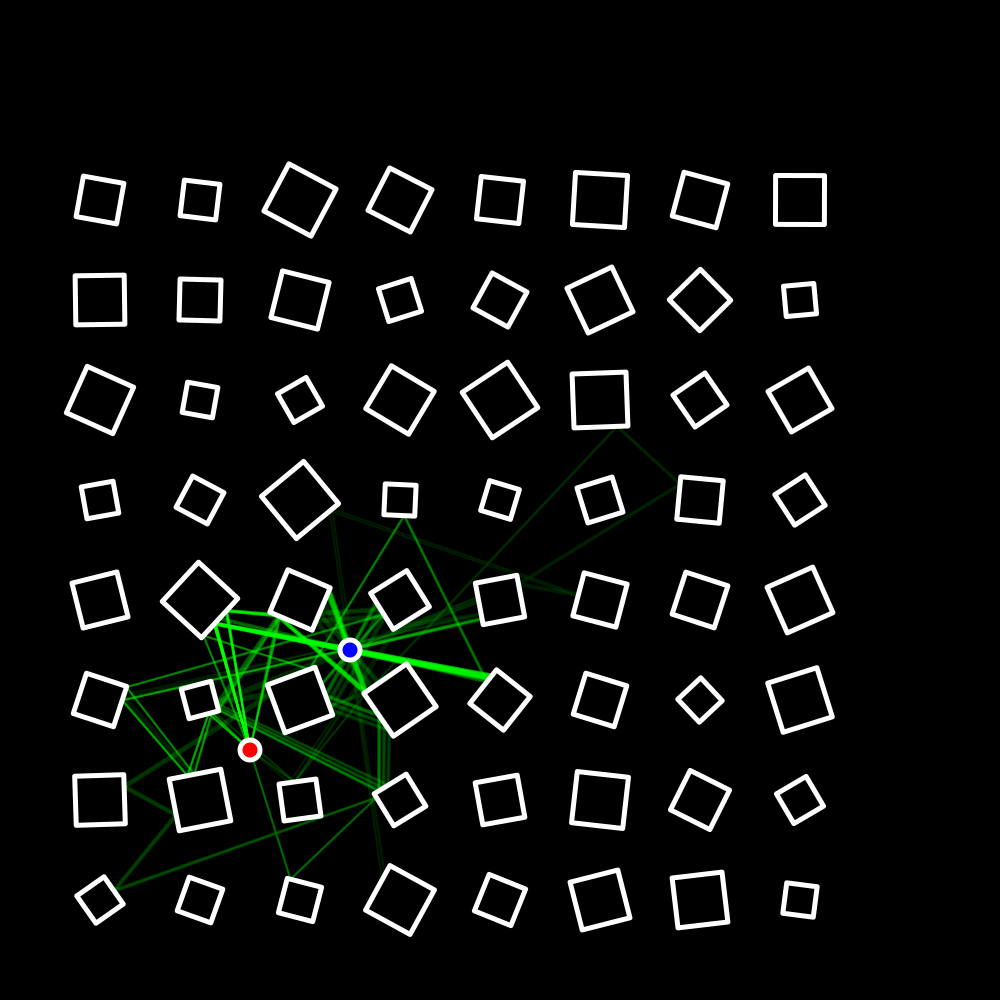
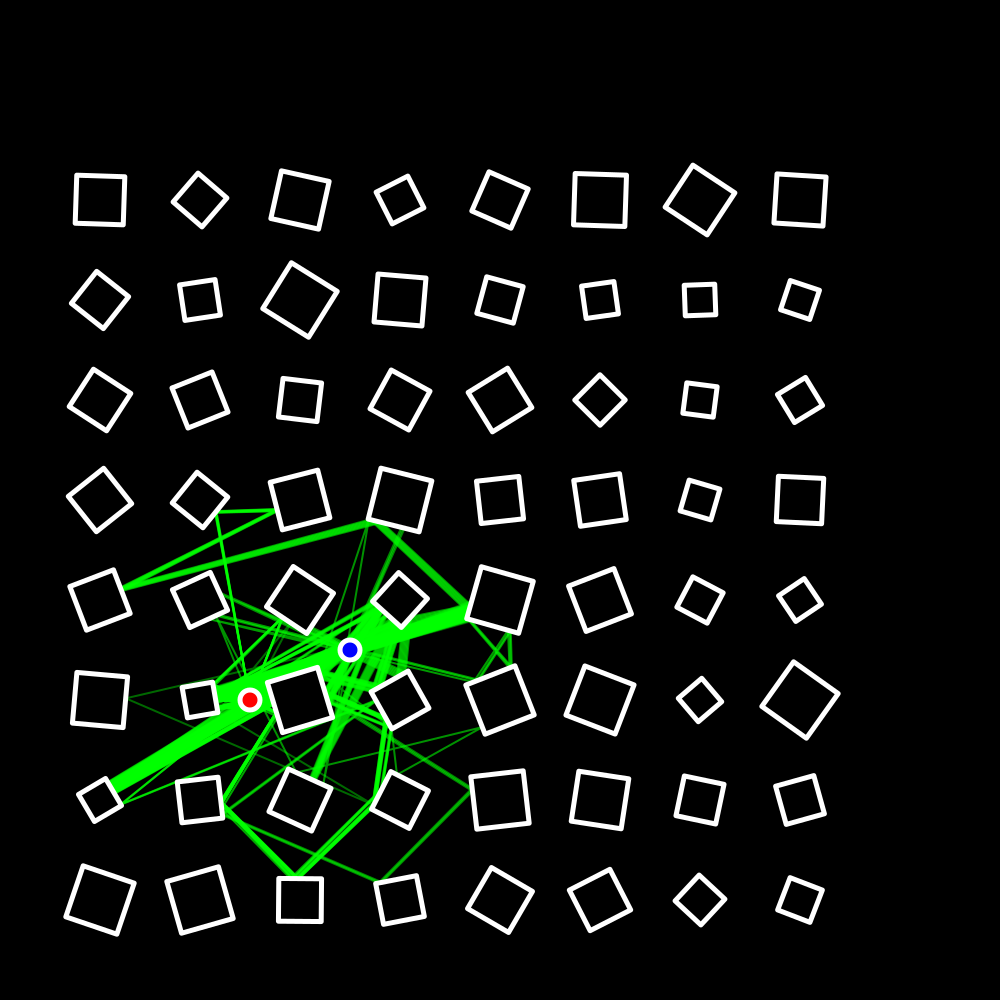
chart working successfully

diff --git a/main.py b/main.py
@@ -6,9 +6,9 @@ import numpy as np
 import matplotlib.pyplot as plt
 from multipatprop import System, Transmitter, Receiver, Interferer, Point, DigitalSignal
 
-seed(1)
+seed(2)
 
-transmitter = Transmitter(Point(-2.5, -2.5))
+transmitter = Transmitter(Point(-2.5, -2))
 receiver = Receiver(Point(-1.5, -1.5))
 interferers = []
 
@@ -18,89 +18,12 @@ for x in range(-4, 4):
         interferers.append(interferer)
 
 system = System(transmitter, receiver, interferers)
-multipath = system.get_multipath(starting_number=3000, receiver_diameter=0.05, max_reflections=10)
+multipath = system.get_multipath(starting_number=5000, receiver_diameter=0.1, max_reflections=10)
 
 camera_position = Point(0, 0)
 camera_zoom = 0.1
 
 
-svg = cairo.SVGSurface("example.svg", 200, 200)
 
-
-with cairo.ImageSurface(cairo.FORMAT_RGB24, 1000, 1000) as surface:
-    context = cairo.Context(surface)
-    context.scale(1000, 1000)
-
-    context.set_source_rgb(0, 0, 0)
-    context.rectangle(0, 0, 1, 1)
-    context.fill()
-    context.translate(0.5, 0.5)
-    context.scale(1, -1)
-    context.scale(camera_zoom, camera_zoom)
-    context.translate(-camera_position.x, -camera_position.y)
-
-    for path in multipath:
-        for point in path:
-            context.line_to(point.x, point.y)
-        context.set_source_rgba(0, 1, 0, path.strength)
-        context.set_line_width(0.02)
-        context.set_line_join(cairo.LINE_JOIN_ROUND)
-        context.set_line_cap(cairo.LINE_CAP_ROUND)
-        context.stroke()
-
-    for interferer in system.interferers:
-        for point in interferer.points:
-            context.line_to(point.x, point.y)
-        context.close_path()
-        context.set_source_rgb(0, 0, 0)
-        context.fill_preserve()
-        context.set_source_rgb(1, 1, 1)
-        context.set_line_width(0.05)
-        context.set_line_join(cairo.LINE_JOIN_ROUND)
-        context.set_line_cap(cairo.LINE_CAP_ROUND)
-        context.stroke()
-
-    context.arc(system.transmitter.position.x, system.transmitter.position.y, 0.1, 0, tau)
-    context.set_source_rgb(1, 0, 0)
-    context.fill_preserve()
-    context.set_source_rgb(1, 1, 1)
-    context.set_line_width(0.05)
-    context.set_line_join(cairo.LINE_JOIN_ROUND)
-    context.set_line_cap(cairo.LINE_CAP_ROUND)
-    context.stroke()
-
-    context.arc(system.receiver.position.x, system.receiver.position.y, 0.1, 0, tau)
-    context.set_source_rgb(0, 0, 1)
-    context.fill_preserve()
-    context.set_source_rgb(1, 1, 1)
-    context.set_line_width(0.05)
-    context.set_line_join(cairo.LINE_JOIN_ROUND)
-    context.set_line_cap(cairo.LINE_CAP_ROUND)
-    context.stroke()
-
-    surface.write_to_png("render.png")
-
-input_times = np.linspace(0, 30, 1000)
-input_strengths = np.zeros(1000)
-
-for i in range(1000):
-    if i % 100 <= 50:
-        input_strengths[i] = 1
-    else:
-        input_strengths[i] = 0
-
-input_signal = DigitalSignal(input_times, input_strengths)
-output_signals = list(multipath.signals(input_signal))
-output_times = np.linspace(0, 30, 1000)
-output_strengths = []
-for input_time in input_times:
-    output_strength = 0
-    for output_signal in output_signals:
-        output_strength += output_signal.strength(input_time)
-    output_strengths.append(output_strength / 10)
-output_signal = DigitalSignal(output_times, output_strengths)
-
-fig, ax = plt.subplots()
-ax.plot(input_signal.times, input_signal.strengths)
-ax.plot(output_signal.times, output_signal.strengths)
-plt.show()
+from render import render
+render(system, multipath, camera_position, camera_zoom, ui_size=1)

diff --git a/render.py b/render.py
@@ -1,0 +1,75 @@
+from math import tau
+import cairo
+import matplotlib.pyplot as plt
+import numpy as np
+from multipatprop import System, Multipath, Point
+
+
+def render(system: System, multipath: Multipath, camera_position: Point, camera_zoom: float, ui_size: float) -> None:
+    with cairo.ImageSurface(cairo.FORMAT_RGB24, 1000, 1000) as surface:
+        context = cairo.Context(surface)
+        context.scale(1000, 1000)
+        context.fill()
+        context.translate(0.5, 0.5)
+        context.scale(1, -1)
+        context.scale(camera_zoom, camera_zoom)
+        context.translate(-camera_position.x, -camera_position.y)
+
+        for path in multipath:
+            for point in path:
+                context.line_to(point.x, point.y)
+            context.set_source_rgba(0, 1, 0, path.attenuation)
+            context.set_line_width(0.02 * ui_size)
+            context.set_line_join(cairo.LINE_JOIN_ROUND)
+            context.set_line_cap(cairo.LINE_CAP_ROUND)
+            context.stroke()
+
+        for interferer in system.interferers:
+            for point in interferer.points:
+                context.line_to(point.x, point.y)
+            context.close_path()
+            context.set_source_rgb(0, 0, 0)
+            context.fill_preserve()
+            context.set_source_rgb(1, 1, 1)
+            context.set_line_width(0.05 * ui_size)
+            context.set_line_join(cairo.LINE_JOIN_ROUND)
+            context.set_line_cap(cairo.LINE_CAP_ROUND)
+            context.stroke()
+
+        context.arc(system.transmitter.position.x, system.transmitter.position.y, 0.1, 0, tau)
+        context.set_source_rgb(1, 0, 0)
+        context.fill_preserve()
+        context.set_source_rgb(1, 1, 1)
+        context.set_line_width(0.05 * ui_size)
+        context.set_line_join(cairo.LINE_JOIN_ROUND)
+        context.set_line_cap(cairo.LINE_CAP_ROUND)
+        context.stroke()
+
+        context.arc(system.receiver.position.x, system.receiver.position.y, 0.1, 0, tau)
+        context.set_source_rgb(0, 0, 1)
+        context.fill_preserve()
+        context.set_source_rgb(1, 1, 1)
+        context.set_line_width(0.05 * ui_size)
+        context.set_line_join(cairo.LINE_JOIN_ROUND)
+        context.set_line_cap(cairo.LINE_CAP_ROUND)
+        context.stroke()
+
+        surface.write_to_png("render.png")
+
+    delays = [path.delay for path in multipath]
+    attenuations = [path.attenuation for path in multipath]
+    degrees = 10
+    coefficients = np.polyfit(delays, attenuations, deg=degrees)
+    x = np.linspace(min(delays), max(delays), 100)
+    y = np.zeros(100)
+    for a in range(100):
+        for d in range(degrees + 1):
+            y[a] += coefficients[-d - 1] * x[a] ** d
+
+    fig, ax = plt.subplots()
+    ax.scatter(delays, attenuations)
+    ax.plot(x, y)
+    ax.set_title("Delay and attenuation of multiple propagating wave paths")
+    ax.set_xlabel("Delay (seconds)")
+    ax.set_ylabel("Attenuation factor")
+    plt.show()

diff --git a/multipatprop.py b/multipatprop.py
@@ -153,17 +153,18 @@ class Multipath:
 
 class Path:
     points: list[Point]
+    attenuation: float
     delay: float
-    strength: float
 
     def __init__(self, points: list[Point]) -> None:
         self.points = points
         self.delay = 0
         for point_1, point_2 in pairwise(points):
             self.delay += point_1.distance(point_2)
-        self.strength = 1
+        factor = 1
         for p in range(len(points) - 2):
-            self.strength *= 0.8
+            factor *= 0.9
+        self.attenuation = 1 - factor
 
     def __iter__(self) -> Iterable[Point]:
         for point in self.points:
@@ -174,7 +175,7 @@ class Path:
         strengths = []
         for time, strength in signal:
             times.append(time + self.delay)
-            strengths.append(strength * self.strength)
+            strengths.append(strength * self.attenuation)
         signal = DigitalSignal(times, strengths)
         return signal
 
